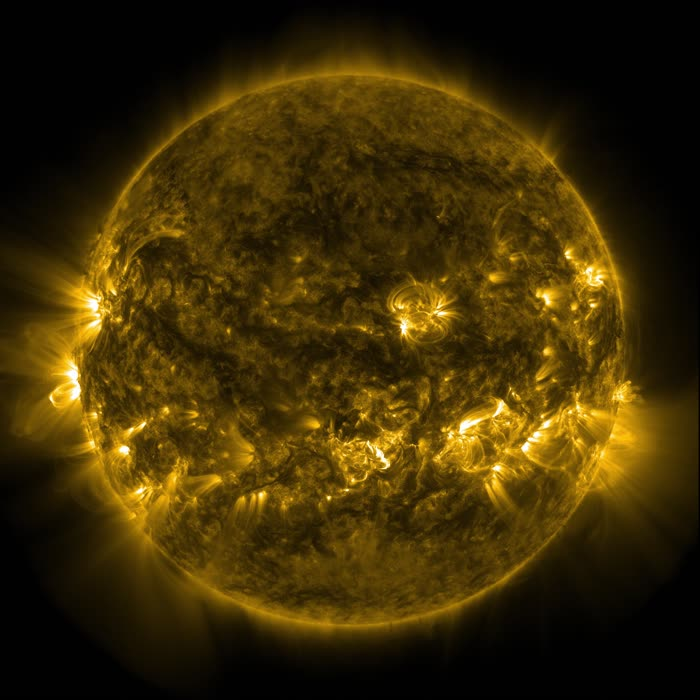
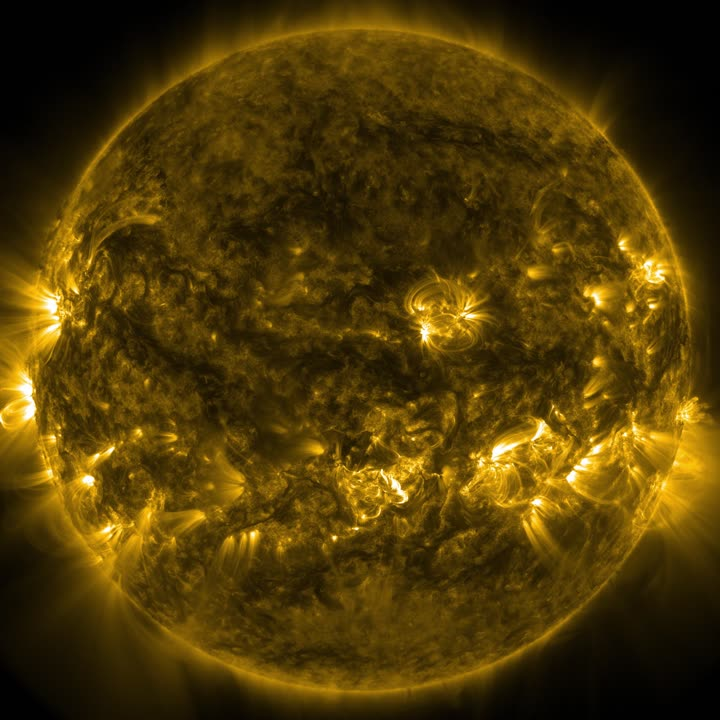
Journey Sun: re-crop to fill disc + feather edge (kills black ring, blends into space); mobile flatten arc + bigger bodies; screenshot-verified desktop+mobile

diff --git a/src/components/funnel-v2/ReadingsLanding.tsx b/src/components/funnel-v2/ReadingsLanding.tsx
@@ -172,6 +172,8 @@ const BODY_POS: Record<string, { x: number; y: number }> = {
   neptune: { x: 92, y: 26 },
   pluto: { x: 98, y: 22 },
 };
+// On phones, flatten the steep diagonal so bodies read across the screen.
+const flattenY = (y: number, mob: boolean) => (mob ? 50 + (y - 50) * 0.5 : y);
 // Order the camera + cards visit (radial, with the Moon cluster grouped).
 const JOURNEY_SEQ = ["sun", "mercury", "venus", "moon", "northNode", "lilith", "mars", "jupiter", "saturn", "chiron", "uranus", "neptune", "pluto"] as const;
 // Everything drawn in the system (adds decorative Earth).
@@ -578,7 +580,7 @@ function BirthSkyJourney() {
   const targets = JOURNEY_SEQ.map((key) => {
     if (key === "sun") return { tx: 0, ty: 0 };
     const p = BODY_POS[key];
-    return { tx: -ZOOM * (p.x - 50), ty: -ZOOM * (p.y - 50) };
+    return { tx: -ZOOM * (p.x - 50), ty: -ZOOM * (flattenY(p.y, isMobile) - 50) };
   });
   const panIn = [0, ...JOURNEY_SEQ.map((_, i) => (i + 0.5) * seg), 1];
   const camX = useTransform(scrollYProgress, panIn, [
@@ -691,7 +693,7 @@ function BirthSkyJourney() {
                 </g>
               </svg>
               {RENDER_ORDER.map((k) => (
-                <SystemBody key={k} bodyKey={k} journeyIndex={(JOURNEY_SEQ as readonly string[]).indexOf(k)} active={active} onJump={goTo} />
+                <SystemBody key={k} bodyKey={k} journeyIndex={(JOURNEY_SEQ as readonly string[]).indexOf(k)} active={active} onJump={goTo} isMobile={isMobile} />
               ))}
             </motion.div>
           </div>
@@ -876,18 +878,19 @@ function SunCanvas() {
   return <canvas ref={ref} className="ls-sun-canvas" aria-hidden="true" />;
 }
 
-function SystemBody({ bodyKey, journeyIndex, active, onJump }: { bodyKey: string; journeyIndex: number; active: number; onJump: (i: number) => void }) {
+function SystemBody({ bodyKey, journeyIndex, active, onJump, isMobile }: { bodyKey: string; journeyIndex: number; active: number; onJump: (i: number) => void; isMobile: boolean }) {
   const pos = BODY_POS[bodyKey];
   const base = REL_SIZE[bodyKey] ?? 0.3;
   const isSun = bodyKey === "sun";
-  const baseDiam = isSun ? 56 : 1 + base * 13;
+  const baseDiam = isSun ? 56 : (1 + base * 13) * (isMobile ? 1.6 : 1);
+  const top = flattenY(pos.y, isMobile);
   const meta = PLANET_META[bodyKey];
   const clickable = journeyIndex >= 0;
   const isActive = clickable && journeyIndex === active;
   return (
     <div
       className={`ls-sys-slot ${isActive ? "is-active" : ""} ${clickable ? "is-clickable" : ""}`}
-      style={{ left: `${pos.x}%`, top: `${pos.y}%`, width: `${baseDiam}%`, zIndex: isSun ? 0 : isActive ? 5 : 1 }}
+      style={{ left: `${pos.x}%`, top: `${top}%`, width: `${baseDiam}%`, zIndex: isSun ? 0 : isActive ? 5 : 1 }}
       onClick={clickable ? () => onJump(journeyIndex) : undefined}
     >
       {isSun ? (
@@ -1648,8 +1651,9 @@ function CosmicStyles() {
         width: 100%;
         height: 100%;
         object-fit: cover;
-        border-radius: 50%;
-        filter: sepia(0.55) saturate(2) hue-rotate(-12deg) brightness(1.05) contrast(1.05);
+        -webkit-mask-image: radial-gradient(circle, #000 60%, rgba(0,0,0,0.5) 73%, transparent 84%);
+        mask-image: radial-gradient(circle, #000 60%, rgba(0,0,0,0.5) 73%, transparent 84%);
+        filter: sepia(0.5) saturate(2.05) hue-rotate(-14deg) brightness(1.08) contrast(1.06);
       }
       @keyframes ls-sun-aura {
         0%, 100% { opacity: 0.7; transform: translate(-50%, -50%) scale(1); }

diff --git a/public/sun-preview.html b/public/sun-preview.html
@@ -22,8 +22,11 @@
     position: relative; width: min(78vw, 360px); aspect-ratio: 1; display: grid; place-items: center;
   }
   /* Option 1 — real footage, circle masked + corona glow */
-  .sun-vid { position: relative; z-index: 1; width: 76%; aspect-ratio: 1; border-radius: 50%; overflow: hidden; }
-  .sun-vid video { width: 100%; height: 100%; object-fit: cover; display: block; filter: sepia(0.55) saturate(2) hue-rotate(-12deg) brightness(1.05) contrast(1.05); }
+  .sun-vid { position: relative; z-index: 1; width: 80%; aspect-ratio: 1; }
+  .sun-vid video { width: 100%; height: 100%; object-fit: cover; display: block;
+    -webkit-mask-image: radial-gradient(circle, #000 60%, rgba(0,0,0,0.5) 73%, transparent 84%);
+    mask-image: radial-gradient(circle, #000 60%, rgba(0,0,0,0.5) 73%, transparent 84%);
+    filter: sepia(0.5) saturate(2.05) hue-rotate(-14deg) brightness(1.08) contrast(1.06); }
   .stage--vid::before {
     content: ""; position: absolute; left: 50%; top: 50%; width: 90%; aspect-ratio: 1;
     transform: translate(-50%,-50%); border-radius: 50%;